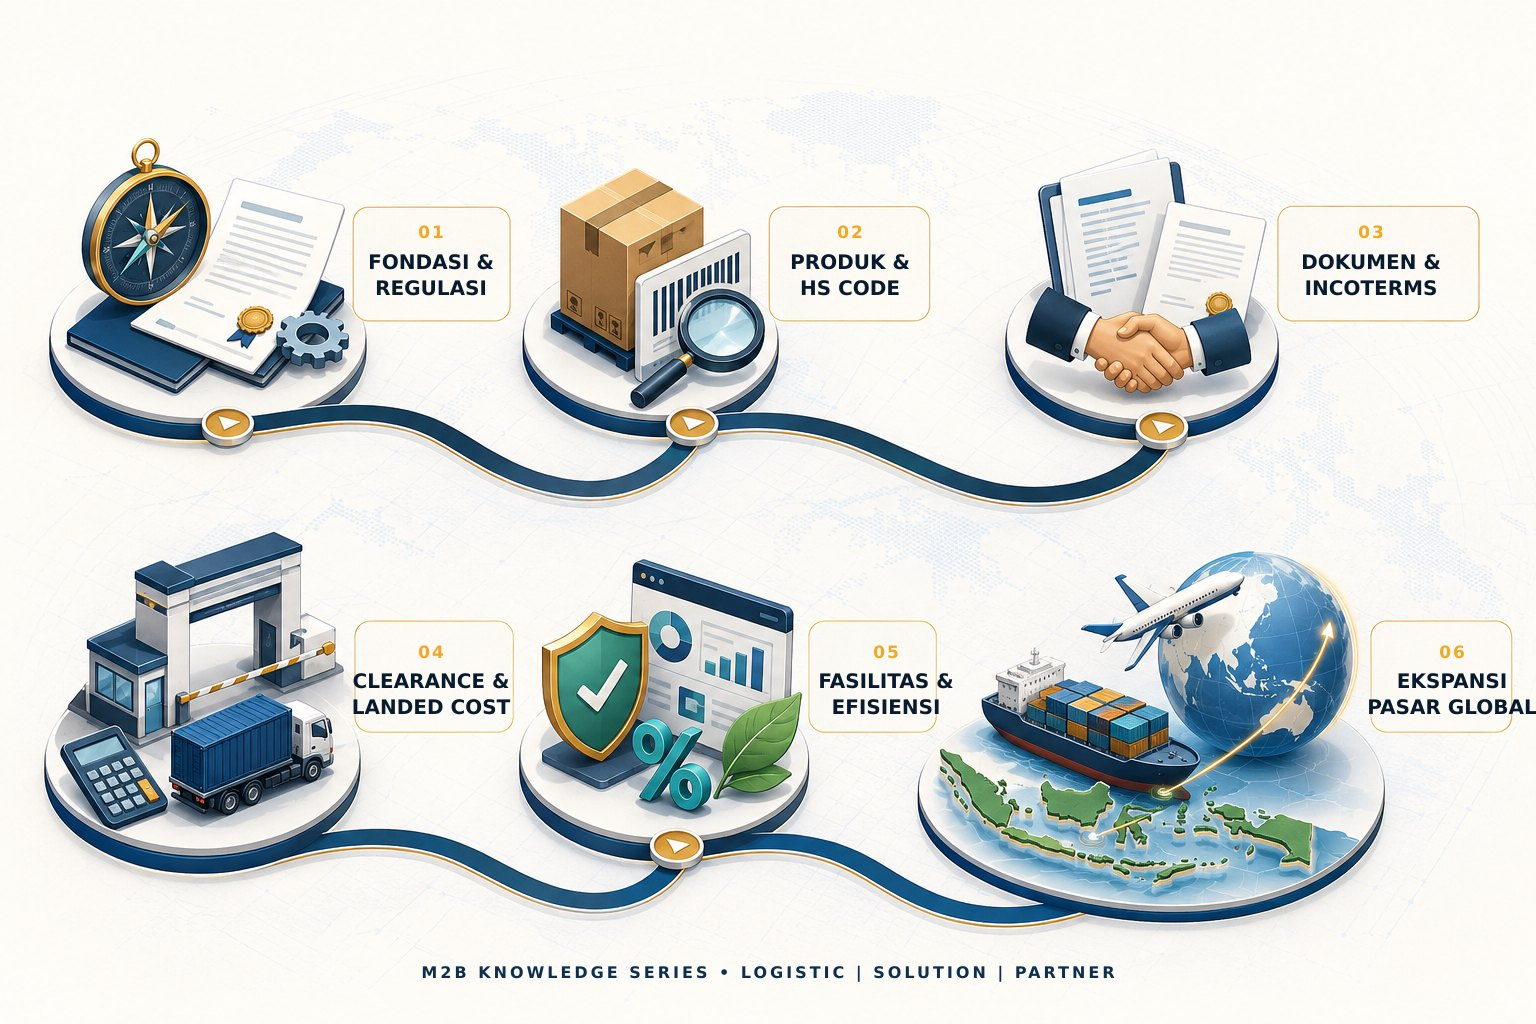
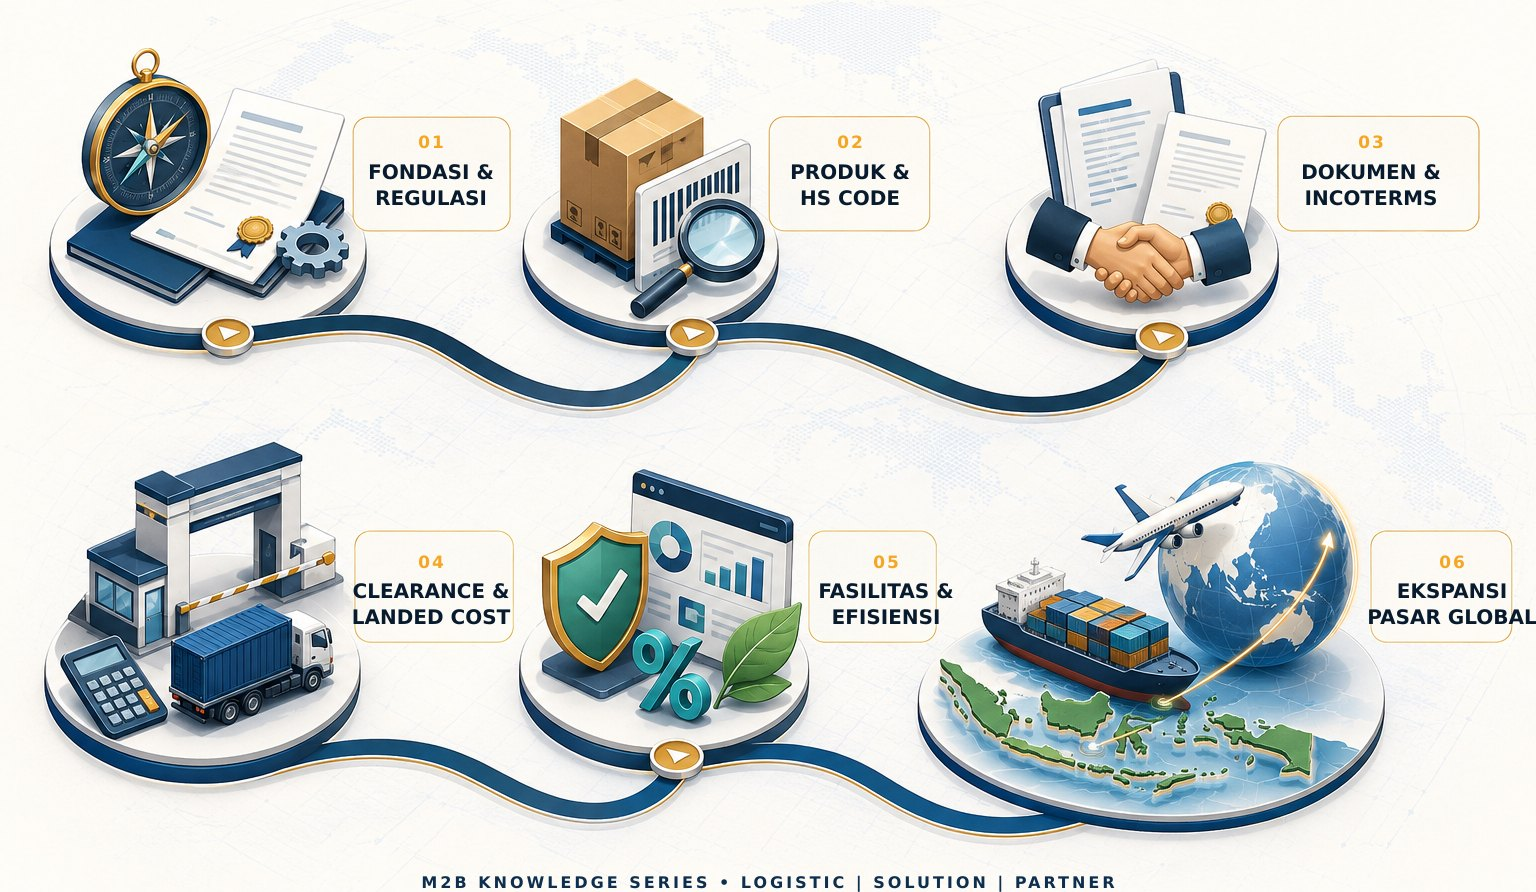
Perbaiki proporsi peta navigasi
Peta baru (1536x1024, rasio 1:0.667) tampil jauh lebih tinggi dari peta
lama (574x252, rasio 1:0.44) karena .infographic-img memakai width:100%.

- Pangkas margin kosong atas 90px & bawah 42px -> 1536x892 (1:0.581)
- .infographic-img: tambah max-width 980px + height auto
- Tinggi blok pada lebar kontainer: 760px -> 569px (lama 527px)

diff --git a/index.html b/index.html
@@ -62,7 +62,7 @@
     <link href="https://fonts.googleapis.com/css2?family=Inter:wght@400;500;600;700;800;900&display=swap"
         rel="stylesheet">
 
-    <link rel="stylesheet" href="style.css?v=20260810">
+    <link rel="stylesheet" href="style.css?v=20260810b">
 
     <!-- 
       ================================================================
@@ -514,7 +514,7 @@
             <div class="infographic-wrapper infographic-no-bg">
                 <picture>
                     <source srcset="img/peta-navigasi-v2.webp" type="image/webp">
-                    <img src="img/peta-navigasi-v2.jpg" width="1536" height="1024"
+                    <img src="img/peta-navigasi-v2.jpg" width="1536" height="892"
                         alt="Peta Navigasi Visual Ekspor-Impor M2B — enam tahapan: (01) fondasi &amp; regulasi, (02) produk &amp; HS Code, (03) dokumen &amp; Incoterms, (04) clearance &amp; landed cost, (05) fasilitas &amp; efisiensi, (06) ekspansi pasar global"
                         class="infographic-img" loading="lazy" decoding="async">
                 </picture>

diff --git a/style.css b/style.css
@@ -640,6 +640,8 @@ body {
 
 .infographic-img {
     width: 100%;
+    max-width: 980px;
+    height: auto;
     display: block;
     margin: 0 auto;
 }
